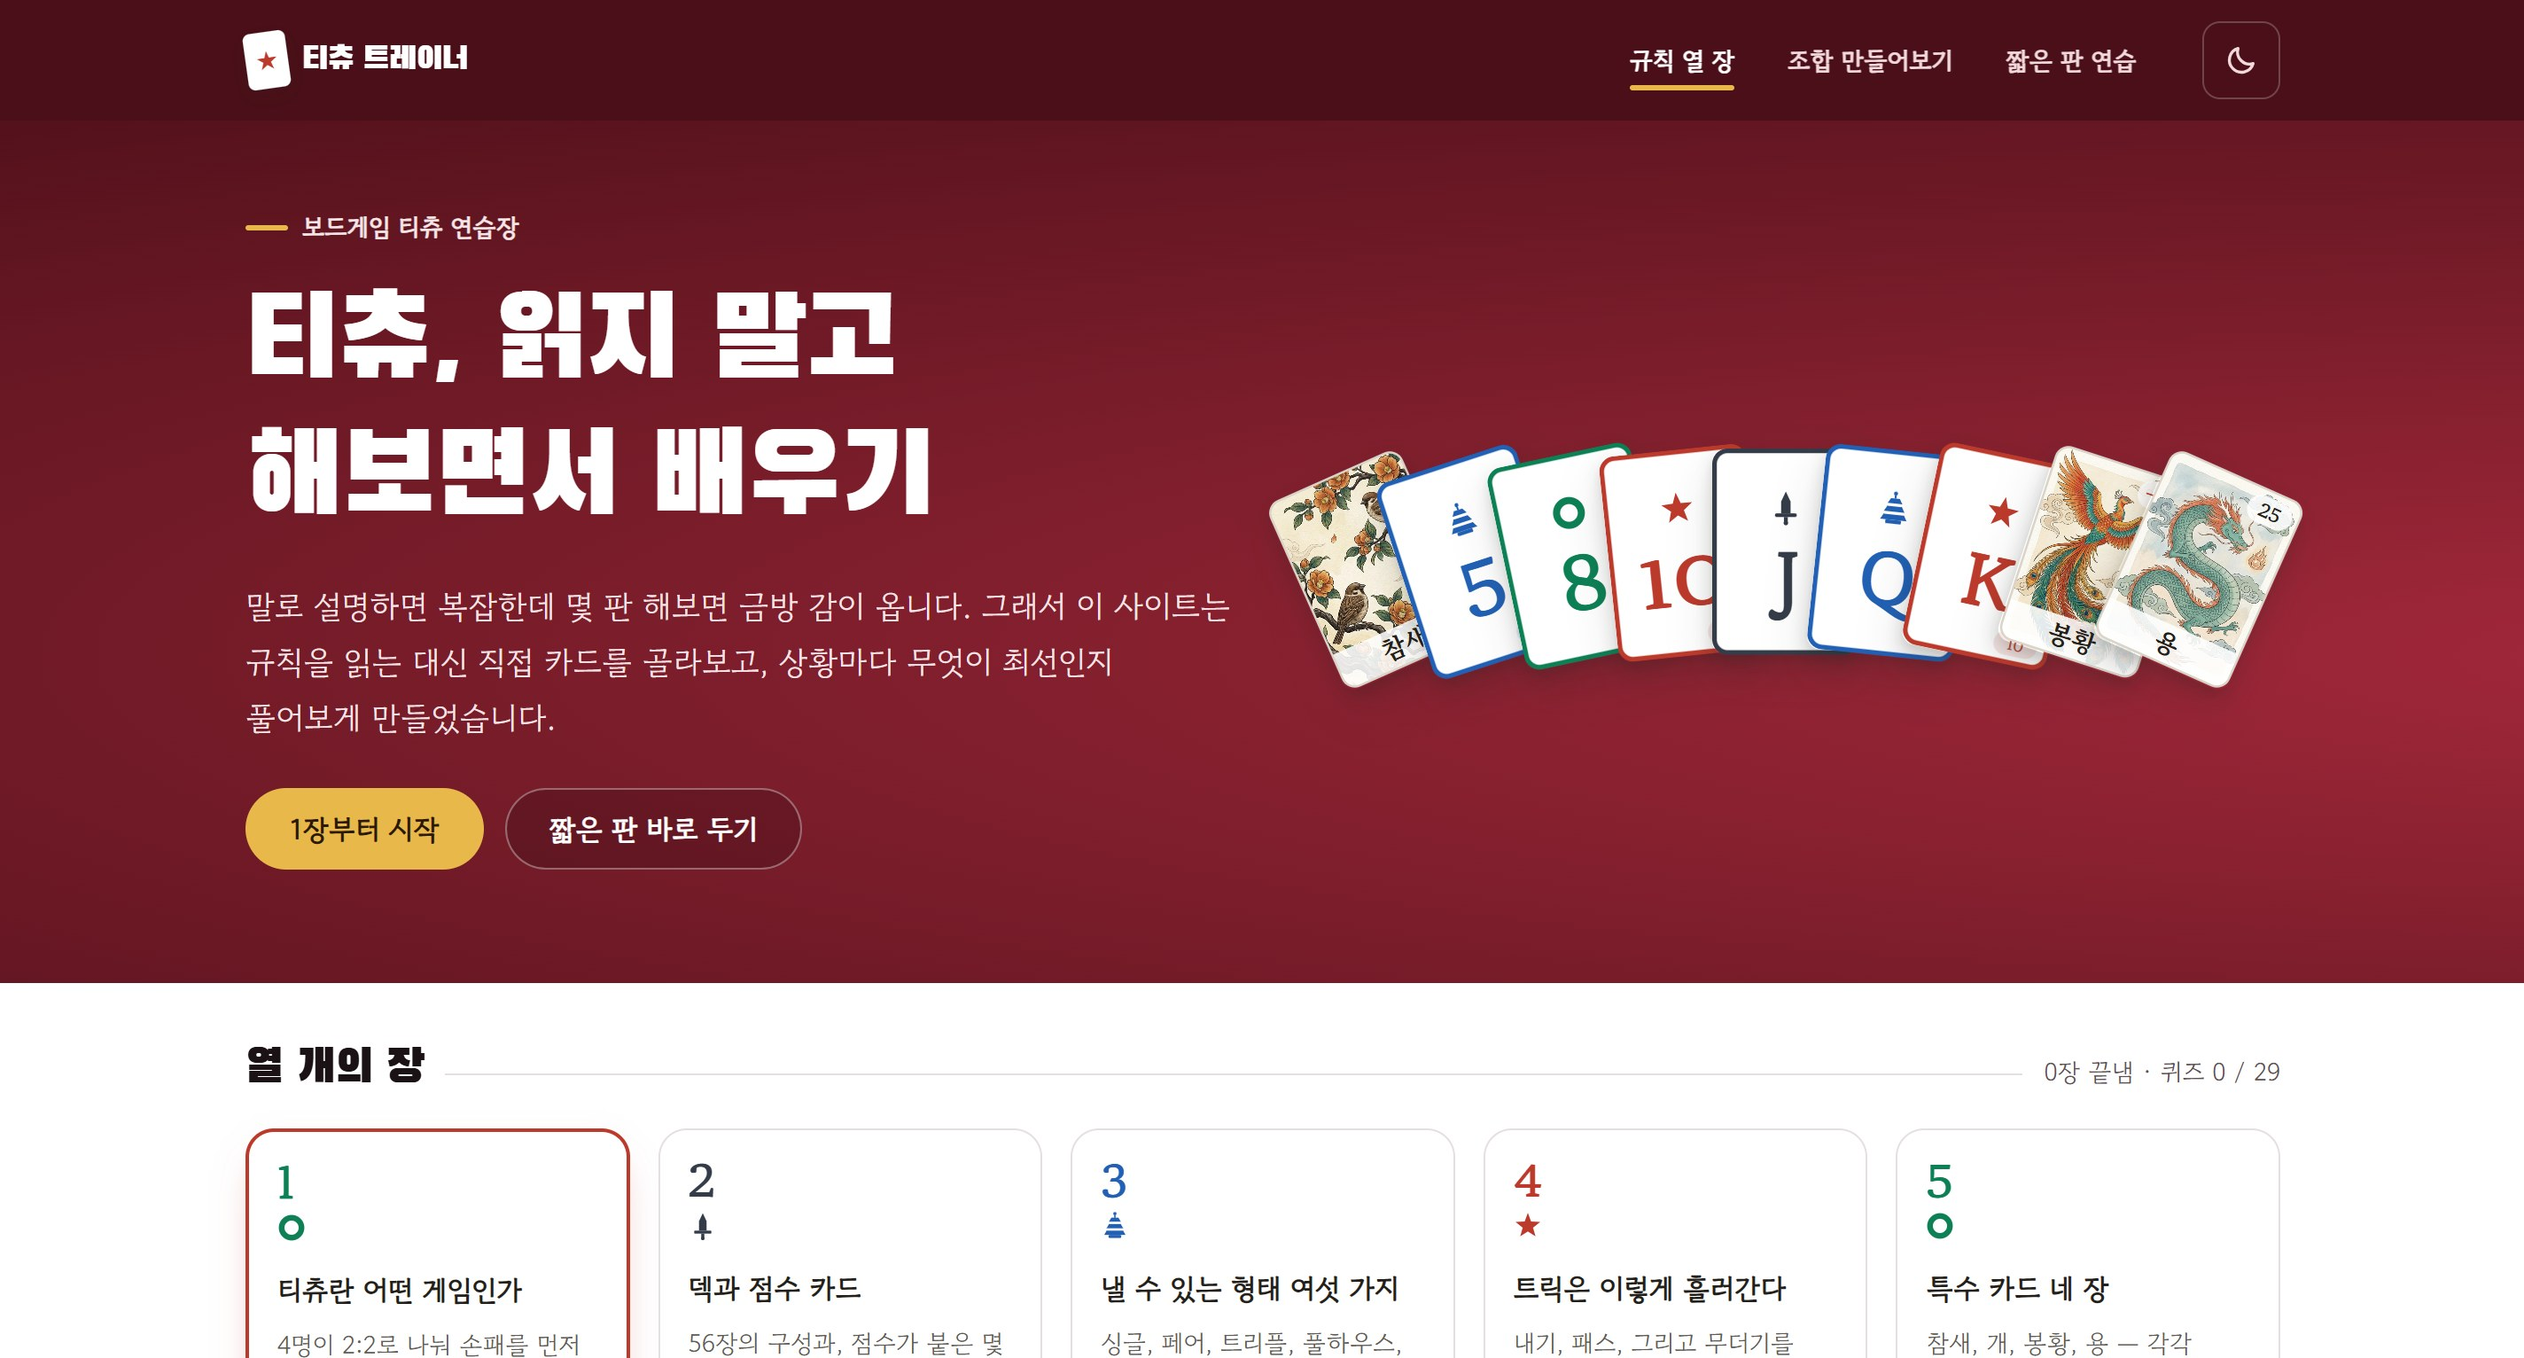
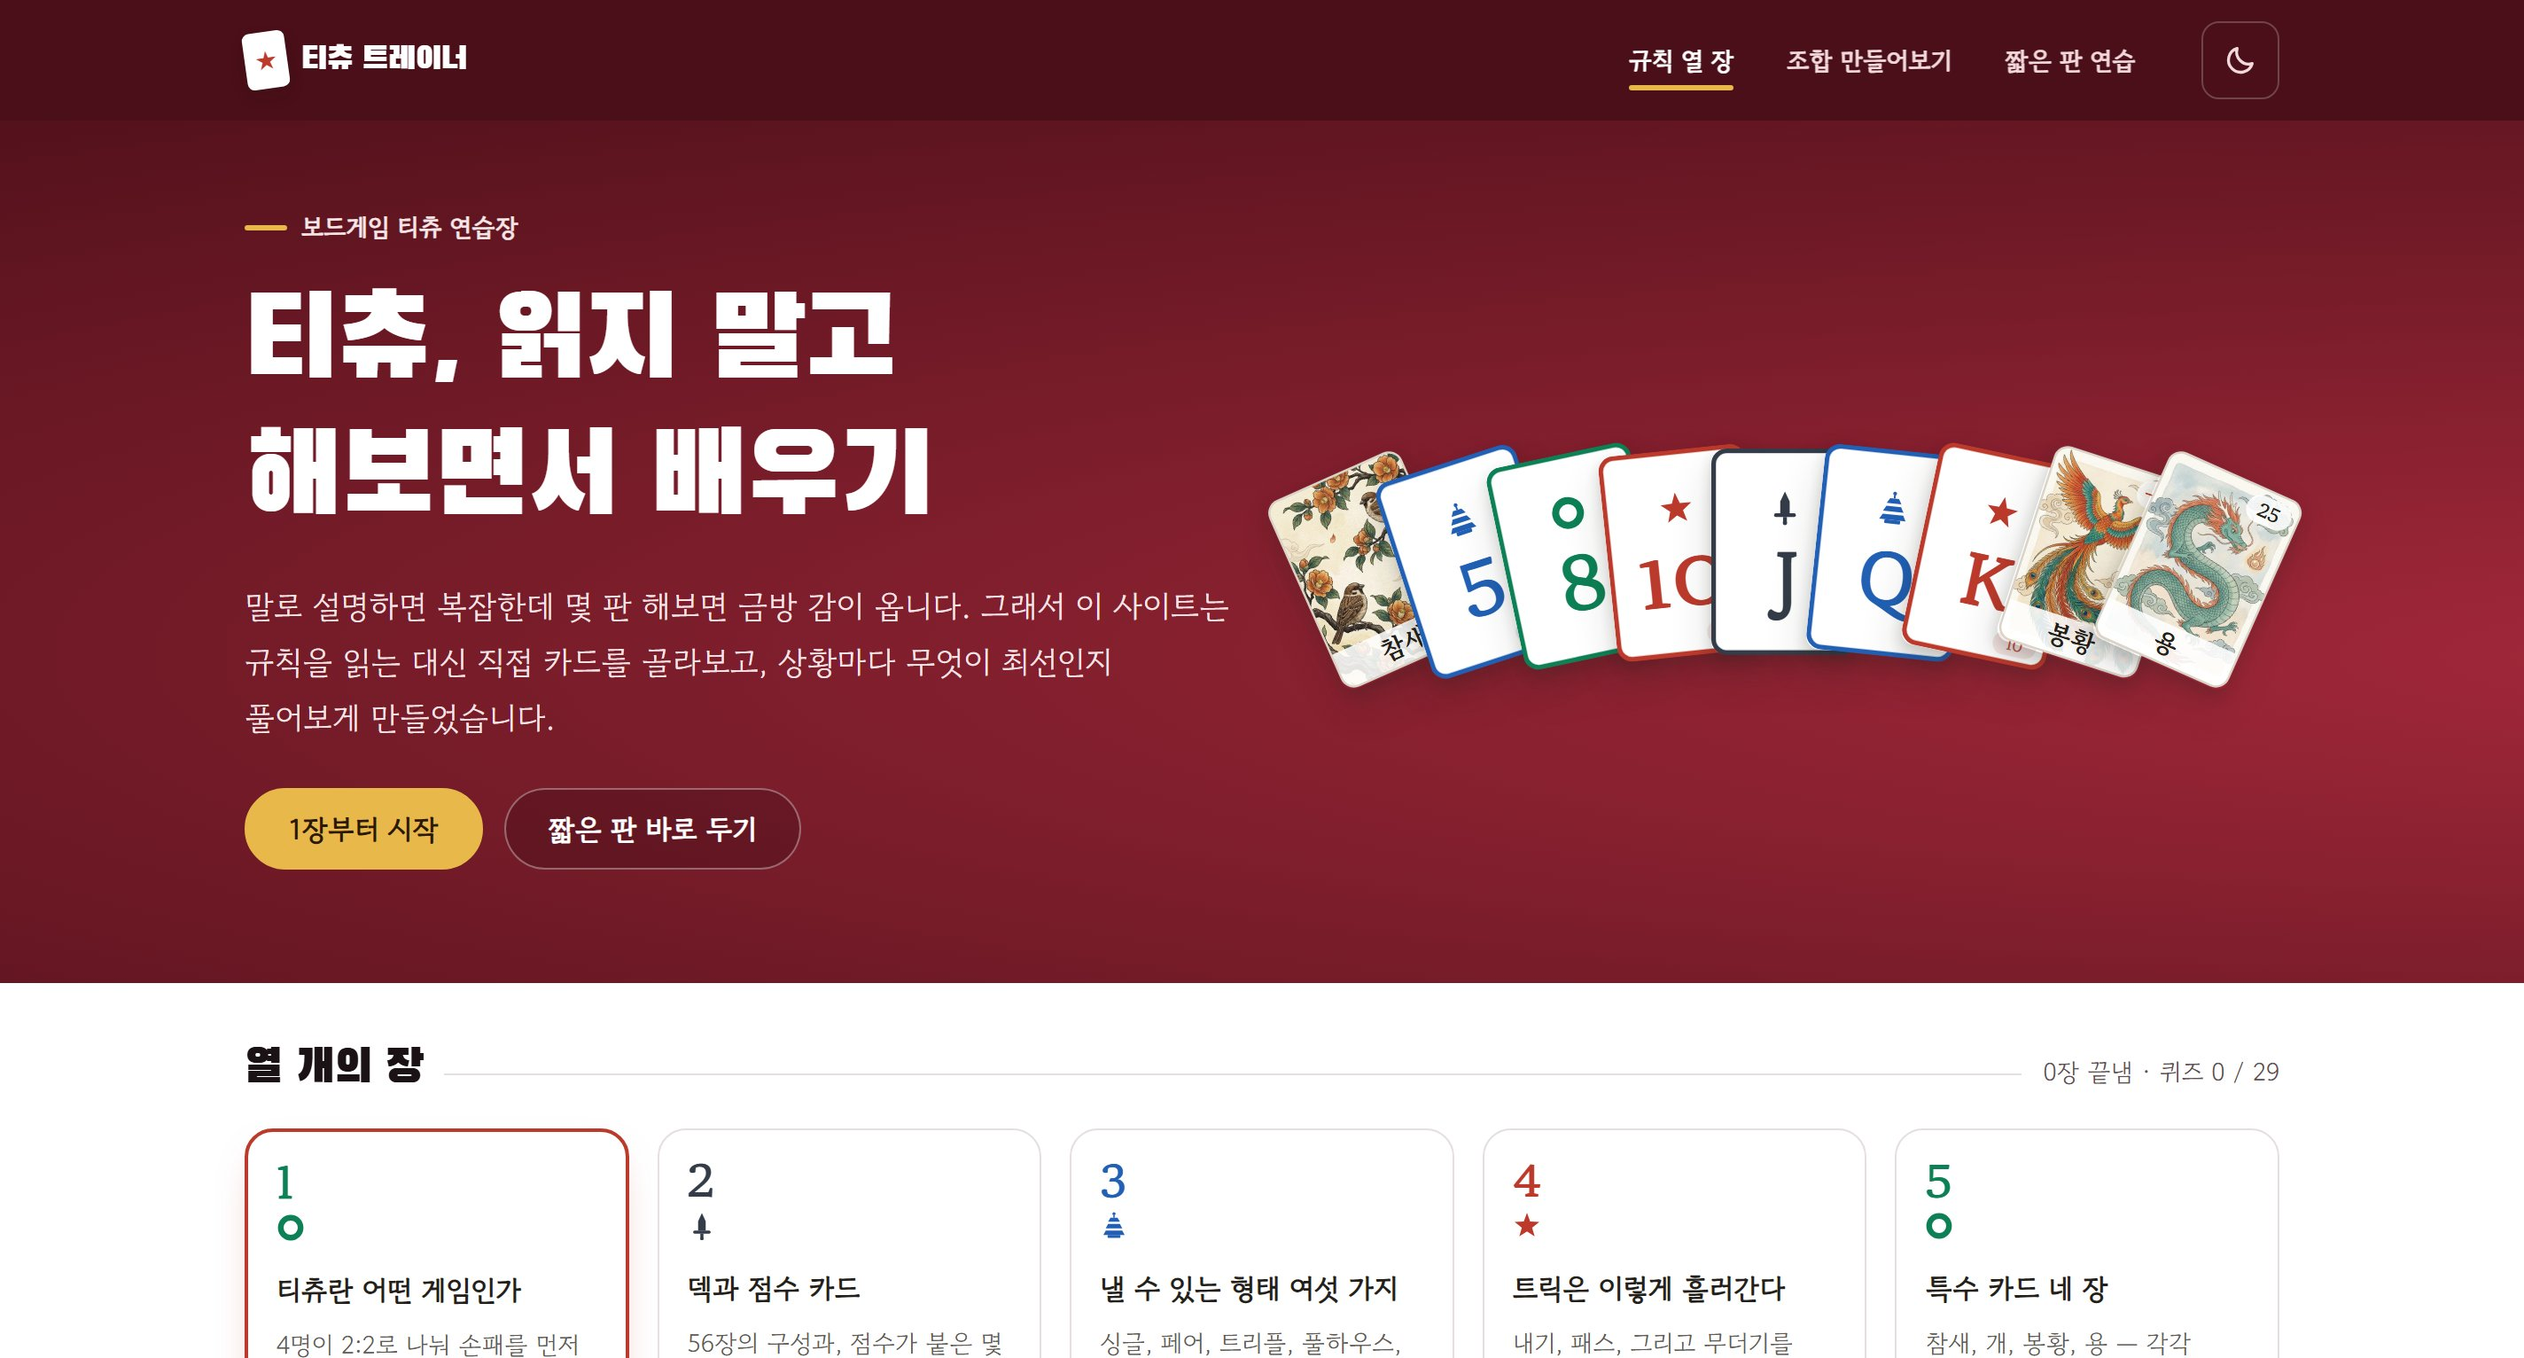
docs: tichu-trainer를 프로젝트 상세 페이지로 옮기고 화면을 새로 찍는다
개인 작업 카드 한 장으로는 규칙 판정 분리·테스트를 어디에 걸었는지 같은 판단을 보여 줄 자리가
없었다. 다른 프로젝트와 같은 틀(담당 영역 · 한 일 · 사례 · 근거 모음)로 04번 상세 페이지를 만들고,
홈의 개인 작업에서는 빼서 같은 내용이 두 곳에 있지 않게 한다.

- 화면 4장(첫 화면 · 조합 만들어보기 판정 · 연습문제 오답 안내 · 짧은 판)을 로컬에서 새로 찍었다.
  안 쓰게 된 sandbox.jpg는 지운다
- 수치는 저장소 540ebf0 기준: 커밋 48건(머지 제외) · 테스트 85개
- 개인 작업 절 설명에서 tichu에만 맞던 "규칙 해석"을 "설계"로 바꾼다

diff --git a/src/config.ts b/src/config.ts
@@ -97,19 +97,8 @@ export const siteConfig = {
     },
   ],
 
+  // tichu-trainer는 10-08 프로젝트 상세(src/content/projects/tichu-trainer.md)로 옮겼다.
   sideProjects: [
-    {
-      name: "tichu-trainer",
-      description: "보드게임 티츄의 규칙을 직접 카드를 내 보며 익히는 학습 웹입니다. 커밋 46건(머지 제외) 모두 제 것입니다.",
-      link: "https://github.com/DreamingGenie/tichu-trainer",
-      image: "/images/projects/tichu-trainer/sandbox.jpg",
-      points: [
-        "규칙 판정 코드 11개 파일에 화면·브라우저 코드가 한 번도 나오지 않아, 판정만 떼어 85개 테스트로 검사합니다",
-        "테스트 도구까지 직접 만들어 설치할 것이 없습니다. 내려받으면 node tests/run.js 한 줄로 돕니다",
-        "해석이 갈리는 규칙은 하나로 정해 근거와 함께 코드에 적었습니다",
-      ],
-      skills: ["JavaScript", "ES 모듈", "테스트 직접 구현"],
-    },
     {
       name: "ServerTimeClicker",
       description: "초 단위로만 알려 주는 서버 시간을 밀리초 단위로 알아내, 정해 둔 위치를 순서대로 클릭하는 데스크톱 앱입니다. 커밋 24건 모두 제 것입니다.",

diff --git a/src/content/projects/tichu-trainer.md b/src/content/projects/tichu-trainer.md
@@ -1,0 +1,96 @@
+---
+title: "tichu-trainer"
+order: 4
+summary: "보드게임 티츄의 규칙을 직접 카드를 내 보며 익히는 학습 웹"
+oneLine: "보드게임 티츄의 규칙을 글로 읽는 대신 카드를 직접 골라 내 보며 익히는 학습 웹입니다. 친구에게 말로 규칙을 설명했는데 잘 전달되지 않아 만들었습니다. 혼자 만들어서 규칙 해석부터 코드 구조, 테스트 범위까지 모두 제가 정했습니다."
+period: "2026.08.20 – 21 이틀에 대부분 구현 → 9월·10월에 다듬기"
+team: "1명 · 개인 작업"
+role: "기획 · 규칙 판정 · 화면 · 테스트"
+stack: ["JavaScript (ES 모듈)", "HTML · CSS", "Node.js (테스트 실행)"]
+repo: "https://github.com/DreamingGenie/tichu-trainer"
+highlight: "규칙 판정 코드를 화면에서 떼어 내, 설치 없이 85개 테스트로 검사합니다"
+cover: "/images/projects/tichu-trainer/cover.jpg"
+gallery:
+  - { src: "/images/projects/tichu-trainer/01.jpg", caption: "조합 만들어보기 — 테이블에 깔린 것을 고르고 카드를 누르면, 무슨 조합인지와 받아칠 수 있는지를 바로 알려 줍니다" }
+  - { src: "/images/projects/tichu-trainer/02.jpg", caption: "연습문제 — 낼 수 없는 카드를 내면 왜 안 되는지를 알려 줍니다" }
+  - { src: "/images/projects/tichu-trainer/03.jpg", caption: "짧은 판 연습 — 정해 둔 상황을 상대와 여러 턴 직접 둬 봅니다" }
+shotNote: "로컬에서 띄워 찍은 화면입니다(저장소 ab9421c, 2026-10-08). 카드 그림은 이 사이트를 위해 그린 것이라 실제 티츄 카드 디자인과 다릅니다."
+areas:
+  - group: "규칙 판정"
+    items:
+      - { name: "조합 판정 · 받아치기", owner: "me" }
+      - { name: "트릭 진행 · 점수 계산", owner: "me" }
+      - { name: "참새 소원 규칙", owner: "me" }
+  - group: "학습 화면"
+    items:
+      - { name: "규칙 열 장(레슨)", owner: "me" }
+      - { name: "연습문제 · 짧은 판 다섯 개", owner: "me" }
+      - { name: "조합 만들어보기", owner: "me" }
+  - group: "기반"
+    items:
+      - { name: "테스트 도구(직접 구현)", owner: "me" }
+      - { name: "본문 · 문제 · 짧은 판 각본(데이터)", owner: "me" }
+      - { name: "진도 저장(브라우저)", owner: "me" }
+did:
+  - id: "engine"
+    title: "규칙 판정과 화면을 코드로 갈라 둠"
+    text: "규칙을 판정하는 코드 11개 파일에는 화면·브라우저 코드가 한 번도 나오지 않습니다. 연습문제 채점, 짧은 판 진행, 조합 만들어보기가 모두 이 판정 함수를 같이 쓰기 때문에 세 화면의 판정이 서로 어긋날 수 없습니다."
+    tags: [{ type: "measured", text: "실측" }]
+    evidence: ["src/engine/*.js"]
+  - title: "설치 없이 도는 85개 테스트"
+    text: "테스트 도구까지 직접 만들어 내려받을 것이 없습니다. 저장소를 받은 뒤 node tests/run.js 한 줄이면 판정·트릭 진행·점수 계산·짧은 판 각본 테스트 85개가 브라우저 없이 돕니다."
+    tags: [{ type: "measured", text: "실측" }]
+    evidence: ["tests/run.js", "540ebf0"]
+  - title: "해석이 갈리는 규칙은 하나로 정해 근거와 함께 적음"
+    text: "만능 카드(봉황)는 여러 조합에 쓸 수 있지만 가장 센 조합(폭탄)에는 못 들어가고, 여러 해석이 가능하면 가장 높은 쪽으로 읽습니다. 공식 룰북을 기준으로 정하고, 그렇게 정한 이유를 판정 코드 주석에 남겼습니다."
+    tags: [{ type: "judged", text: "판단" }]
+    evidence: ["src/engine/combos.js"]
+  - title: "가르치는 글도 테스트함"
+    text: "레슨 본문에 적은 카드 표기가 실제로 있는 카드인지를 테스트로 확인합니다. 손으로 쓴 글의 오타는 그 화면에 들어가 봐야만 드러나기 때문입니다."
+    tags: [{ type: "measured", text: "실측" }]
+    evidence: ["tests/content.test.js:47"]
+cases:
+  - id: "teach"
+    kind: "테스트 · 설계 판단"
+    title: "테스트를 '틀린 것을 가르치는 자리'에 걸었습니다"
+    tags: [{ type: "judged", text: "판단" }, { type: "limit", text: "학습 효과는 한 사람의 말" }]
+    steps:
+      - { label: "문제", text: "조합 만들어보기의 연습용 손패에 페어가 5·6·K뿐이었습니다. 그래서 연속 페어나 풀하우스가 깔리면 이길 방법이 폭탄밖에 없었습니다. 코드는 맞게 돌았지만, 화면은 \"폭탄만 만들면 다 이긴다\"를 가르치고 있었습니다." }
+      - { label: "해결", text: "손패를 다시 짜고, \"테이블에 깔 수 있는 상황마다 폭탄이 아닌 답이 하나는 있다\"를 테스트로 걸었습니다." }
+      - { label: "결과", text: "같은 묶음의 테스트가 모순을 하나 더 잡았습니다. 용이 테이블과 손패에 동시에 있었는데, 용은 덱에 한 장뿐입니다. 레슨에서 이어지지 않던 짧은 판 하나도 연결하고, 같은 누락이 다시 생기지 않게 테스트를 붙였습니다." }
+      - { label: "배운 것", text: "학습 도구의 테스트는 \"코드가 맞나\"보다 \"가르치는 내용이 맞나\"에 걸어야 합니다." }
+      - { label: "한계", text: "가르치는 내용이 맞는지는 테스트로 지키지만, 실제로 배우기 쉬워졌는지는 \"카드로 확인하니 이해가 수월했다\"는 친구 한 명의 말이 전부입니다.", limit: true }
+    evidence: ["5b193e5", "97f1a69", "tests/sandbox.test.js"]
+  - id: "auto"
+    kind: "판단"
+    title: "편한 자동 이름표가 틀린 말을 해서 걷어냈습니다"
+    tags: [{ type: "judged", text: "판단" }]
+    steps:
+      - { label: "시도", text: "레슨에서 카드 묶음 옆에 조합 이름을 붙이려고, 판정 함수로 이름을 자동으로 만들게 했습니다." }
+      - { label: "문제", text: "본문의 카드 묶음이 늘 조합인 것은 아니었습니다. 덱을 설명하는 장의 점수 카드 네 장이 \"포카드 폭탄 A\"로, 참새 한 장이 \"싱글 1\"로 나왔습니다." }
+      - { label: "선택", text: "자동 이름을 걷어냈습니다. 옆의 절 제목이 그 역할을 하고, 꼭 필요하면 본문 데이터에 이름을 직접 적게 하자는 대안을 커밋에 남겼습니다." }
+      - { label: "기준", text: "가르치는 화면에서 틀린 설명은 없는 설명보다 나쁩니다." }
+    evidence: ["89b64eb"]
+  - id: "measure"
+    kind: "판단 번복"
+    title: "제가 근거를 대고 넣은 설정을, 재 보고 뺐습니다"
+    tags: [{ type: "judged", text: "판단" }, { type: "limit", text: "측정 스크립트 없음" }]
+    steps:
+      - { label: "처음 판단", text: "한글은 단어를 쪼개지 않게 줄을 바꾸면 마지막 줄에 두 글자만 떨어지는 일이 잦습니다. 이를 줄이려고 문단에 text-wrap: pretty를 넣었습니다." }
+      - { label: "재 보니", text: "열 장을 다시 재 보니, 마지막 줄이 아닌데도 오른쪽을 크게 남기고 일찍 끊기는 줄이 오히려 늘었습니다. 한글은 어절째 옮겨져서 조정 폭이 어절 하나만큼 커지기 때문입니다." }
+      - { label: "선택", text: "문단에서는 걷어내고 두 글자짜리 마지막 줄 몇 개를 받아들였습니다. 짧아서 같은 부작용이 없는 제목에는 그대로 두었습니다. 무엇을 대가로 줬는지는 커밋과 스타일 주석에 적었습니다." }
+      - { label: "한계", text: "브라우저에서 직접 잰 값이라, 잰 스크립트는 저장소에 남아 있지 않습니다.", limit: true }
+    more: "같은 정비에서 문단 폭 단위도 바꿨습니다. 폭을 52ch로 잡았는데, ch는 숫자 \"0\"의 너비라 라틴 문자 기준입니다. 한글은 그 1.7배쯤 넓어서 실제로는 한 줄에 30자 남짓이었고, 문단이 두세 줄로 자꾸 끊겼습니다. 글자 크기를 따라가는 em으로 바꿔(38em) 글자 크기와 상관없이 40자 안팎이 되게 했습니다.\n\n흔히 쓰는 단위라도 내가 다루는 글자에 맞는지 먼저 재 봐야 한다는 것을 이때 배웠습니다."
+    evidence: ["406c1a5", "f912d58", "styles/base.css:39"]
+---
+
+- **저장소**: 공개 · `github.com/DreamingGenie/tichu-trainer` · 기준 커밋 `540ebf0`(2026-10-11).
+- **작업량**: 커밋 48건(머지 제외) 모두 제 것 — 2026-08-20 ~ 21에 27건, 09-20에 5건, 10-02 · 10-06에 15건, 10-11에 1건. 머지 6건(PR #1 ~ #6)은 따로. JS 5,885줄 / CSS 1,657줄.
+- **의존성**: `package.json`에 `dependencies`가 없습니다. 빌드 단계도 없고, ES 모듈이라 `node tools/serve.js 8000`으로 띄워 봅니다.
+- **판정과 화면 분리**: `src/engine/*.js` 11개 파일에 `document.` · `window.` · `localStorage` 0회.
+- **테스트**: 직접 만든 러너 `tests/run.js`로 85개, 실패 0(2026-10-11 재실행).
+- **봉황 규칙**: 페어 · 트리플 · 풀하우스 · 연속 페어 · 스트레이트에서 만능으로 쓰고 폭탄에는 못 넣음, 여러 해석이면 가장 높은 랭크, 단독으로 내면 직전 카드보다 0.5 높음(`src/engine/combos.js` 머리 주석 · `combos.js:69` · `compare.js:31`).
+- **본문 카드 표기 테스트**: `tests/content.test.js:47` "본문의 `[[카드]]` 표기가 전부 실제 카드다".
+- **연습 손패**: `5b193e5`(손패 재구성 + "프리셋마다 폭탄이 아닌 답이 하나는 있다") · 짧은 판 연결과 재발 방지 테스트 `97f1a69`.
+- **자동 이름표 철회**: `89b64eb` 커밋 본문 "짓지 않기로 한 것".
+- **줄바꿈 설정 철회**: 도입 `406c1a5` → 철회 `f912d58`(측정값은 커밋 본문). 문단 폭 `--measure: 38em`(`styles/tokens.css`).

diff --git a/README.md b/README.md
@@ -3,7 +3,7 @@
 신입 백엔드 개발자 전진의 포트폴리오입니다.
 
 - 홈: 소개 · 대표 장면 · 프로젝트 · 기술 · 개인 작업 · 이력
-- 프로젝트 상세: `/projects/comeettool` · `/projects/tripcraft` · `/projects/pickage`
+- 프로젝트 상세: `/projects/comeettool` · `/projects/tripcraft` · `/projects/pickage` · `/projects/tichu-trainer`
 
 ## 실행
 
@@ -30,7 +30,7 @@ npm run build    # dist/
 | 프로필 사진 | `public/images/profile.jpg` |
 | 프로젝트 대표 화면 (원래 비율 그대로) | `public/images/projects/<slug>/cover.jpg` |
 | 프로젝트 추가 화면 (원래 비율 그대로) | `public/images/projects/<slug>/01.jpg`, `02.jpg` |
-| 개인 작업 화면 | `public/images/projects/tichu-trainer/cover.jpg`, `servertimeclicker/cover.jpg` |
+| 개인 작업 화면 | `public/images/projects/servertimeclicker/cover.jpg` |
 
 경로와 설명 문구는 각 프로젝트 md의 `cover` · `gallery`, `src/config.ts`의 `profileImage` · `sideProjects[].image`에서 바꿉니다.
 
